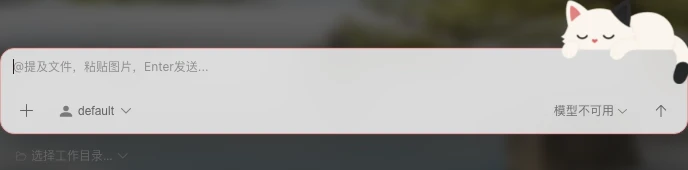
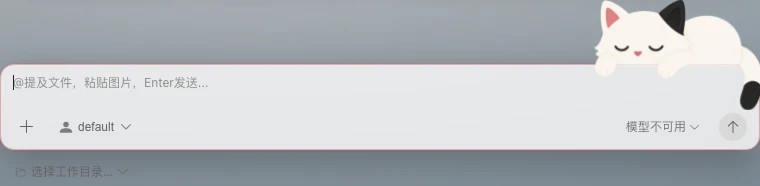
feat(webview): 换掉纸门枯山水，壁纸按原图构图铺满
浅色改用天空和沙丘；深色雾图换成云层。cover 居中并外扩裁边，减弱压暗，避免海平线被挤成底边亮带。

diff --git a/packages/webview/e2e/demo/desktop-sender-cat.demo.ts b/packages/webview/e2e/demo/desktop-sender-cat.demo.ts
@@ -10,7 +10,7 @@ test.describe("Desktop New Session Sender Cat", () => {
   test("capture sender cat on new-session page", async ({ webviewPage }) => {
     const injector = new MessageInjector(webviewPage);
 
-    await webviewPage.setViewportSize({ width: 960, height: 640 });
+    await webviewPage.setViewportSize({ width: 1280, height: 800 });
 
     await injector.simulateExtensionMessage("desktopWorkdirState", {
       recentWorkdirs: [],
@@ -42,7 +42,28 @@ test.describe("Desktop New Session Sender Cat", () => {
     ).toBeVisible();
     await expect(webviewPage.getByTestId("welcome-headline")).toBeVisible();
 
-    // Match typical desktop dark chrome for the review screenshot.
+    const wallpaper = webviewPage.getByTestId("new-session-wallpaper");
+    await expect(wallpaper).toBeVisible();
+    const cover = await wallpaper.evaluate((el) => {
+      const style = getComputedStyle(el);
+      const parent = el.parentElement;
+      if (!parent) return null;
+      const box = el.getBoundingClientRect();
+      const frame = parent.getBoundingClientRect();
+      return {
+        backgroundSize: style.backgroundSize,
+        backgroundPosition: style.backgroundPosition,
+        parentOverflow: getComputedStyle(parent).overflow,
+        bleedsX: box.width > frame.width + 8,
+        bleedsY: box.height > frame.height + 8,
+      };
+    });
+    expect(cover?.backgroundSize).toBe("cover");
+    expect(cover?.backgroundPosition).toBe("50% 50%");
+    expect(cover?.parentOverflow).toBe("hidden");
+    expect(cover?.bleedsX).toBe(true);
+    expect(cover?.bleedsY).toBe(true);
+
     await webviewPage.evaluate(() => {
       document.documentElement.setAttribute("data-theme", "dark");
       document.body.classList.add("vscode-dark");

diff --git a/packages/webview/src/styles/WelcomeView.css b/packages/webview/src/styles/WelcomeView.css
@@ -33,10 +33,13 @@
 .welcome-view-wallpaper,
 .new-session-page-wallpaper {
   z-index: 0;
+  /* Cover fills the pane; extra inset hides the blur halo. Keep the photo's
+     own horizon — pinning Y too high turned seascapes into a bottom stripe. */
+  inset: -12%;
   background-size: cover;
-  background-position: center;
+  background-position: center center;
   background-repeat: no-repeat;
-  filter: blur(6px) saturate(0.92) brightness(0.72);
+  filter: blur(4px) saturate(1) brightness(0.9);
 }
 
 :root[data-theme="light"] .welcome-view-wallpaper,
@@ -50,14 +53,14 @@
   background:
     radial-gradient(
       ellipse 80% 60% at 50% 38%,
-      rgb(0 0 0 / 0.22) 0%,
-      rgb(0 0 0 / 0.42) 100%
+      rgb(0 0 0 / 0.06) 0%,
+      rgb(0 0 0 / 0.22) 100%
     ),
     linear-gradient(
       180deg,
-      rgb(0 0 0 / 0.22) 0%,
-      rgb(0 0 0 / 0.16) 42%,
-      rgb(0 0 0 / 0.34) 100%
+      rgb(0 0 0 / 0.12) 0%,
+      rgb(0 0 0 / 0.08) 42%,
+      rgb(0 0 0 / 0.28) 100%
     );
 }
 

diff --git a/packages/webview/src/components/chat/welcomeWallpapers.ts b/packages/webview/src/components/chat/welcomeWallpapers.ts
@@ -3,12 +3,12 @@ import darkMist from "../../assets/welcome-wallpapers/dark-mist.webp";
 import darkSea from "../../assets/welcome-wallpapers/dark-sea.webp";
 import darkMoon from "../../assets/welcome-wallpapers/dark-moon.webp";
 import lightFog from "../../assets/welcome-wallpapers/light-fog.webp";
-import lightPaper from "../../assets/welcome-wallpapers/light-paper.webp";
-import lightGarden from "../../assets/welcome-wallpapers/light-garden.webp";
+import lightSky from "../../assets/welcome-wallpapers/light-sky.webp";
+import lightDune from "../../assets/welcome-wallpapers/light-dune.webp";
 
 export const WELCOME_WALLPAPERS: Record<EffectiveTheme, readonly string[]> = {
   dark: [darkMist, darkSea, darkMoon],
-  light: [lightFog, lightPaper, lightGarden],
+  light: [lightFog, lightSky, lightDune],
 };
 
 const LAST_WALLPAPER_KEY = "muse-welcome-wallpaper";

diff --git a/docs/superpowers/specs/2026-09-01-welcome-view-design.md b/docs/superpowers/specs/2026-09-01-welcome-view-design.md
@@ -57,7 +57,7 @@
 | Theme | 文件（`packages/webview/src/assets/welcome-wallpapers/`） |
 |---|---|
 | dark | `dark-mist.webp`、`dark-sea.webp`、`dark-moon.webp` |
-| light | `light-fog.webp`、`light-paper.webp`、`light-garden.webp` |
+| light | `light-fog.webp`、`light-sky.webp`、`light-dune.webp` |
 
 - 进入欢迎页（组件 mount）时抽取；同一页停留不换。
 - 切 light / dark 时从新池再抽一张。
